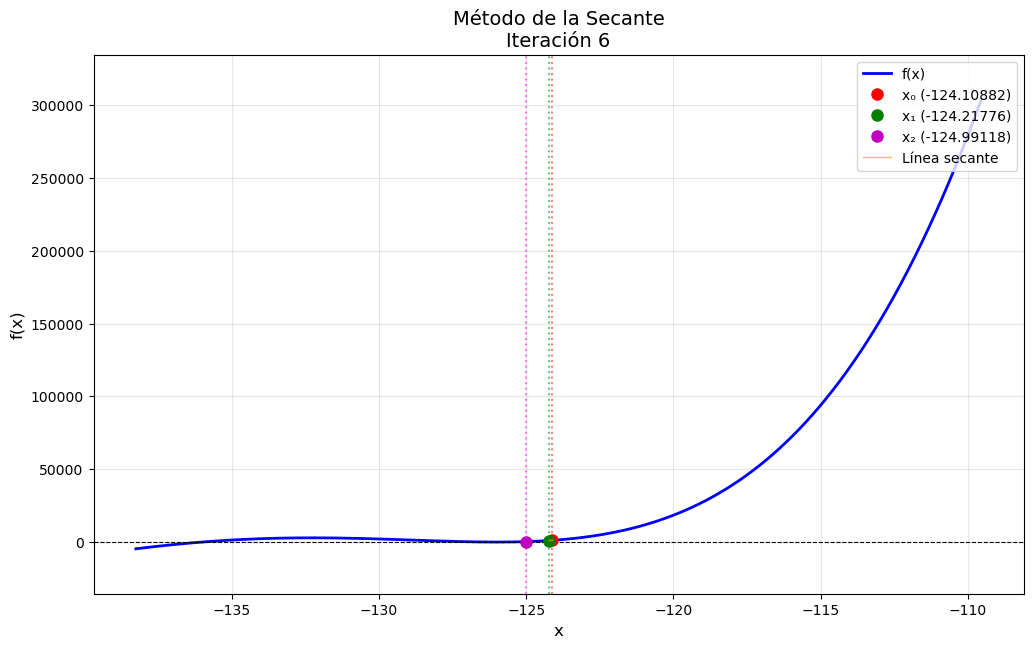
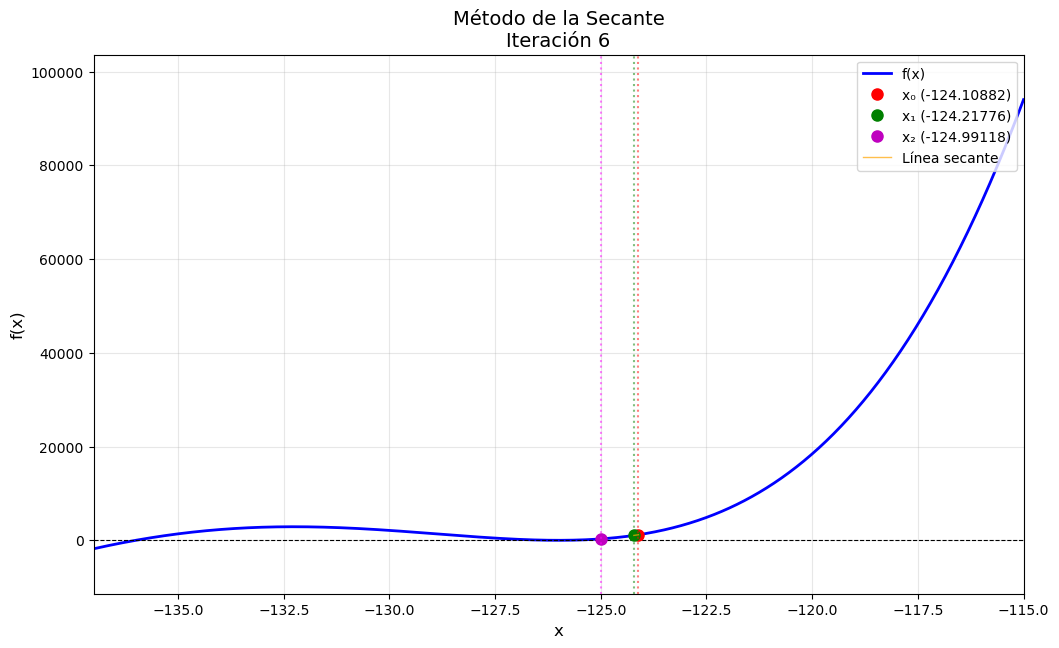
Finalizacion ejercicio 1

diff --git a/readme.md b/readme.md
@@ -1,0 +1,14 @@
+
+## Taller 02 - Métodos Numéricos
+
+### Ejercicio 01
+
+Se uso el metodo de bisección para encontrar dos de las 3 raices:
+
+![Animación del método de bisección](/TALLER_02/graficas_biseccion_combinada/biseccion_combinada_animacion.gif)
+
+La tercera raiz no se pudo encontrar por el metodo de biseccion ya que ambas las aproximaciones iniciales eran del mismo signo, se uso el metodo de secante para encontrarla.
+
+![Animación del método de secante](/TALLER_02/graficas_secante/secante_animacion.gif)
+
+
